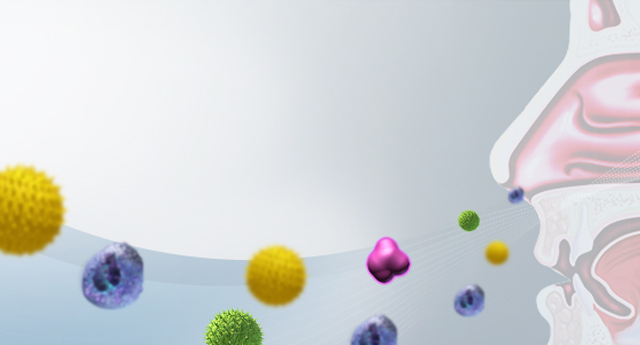
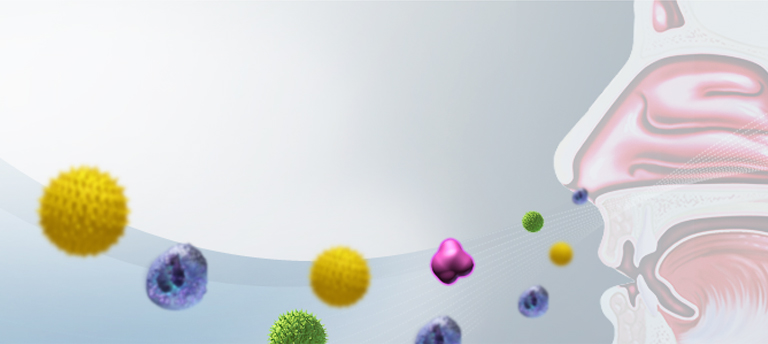
Hero Image Mobile fix

diff --git a/app/css/global/_styleguide.scss b/app/css/global/_styleguide.scss
@@ -250,6 +250,9 @@ h4{
     max-width: 1400px;
     margin: auto;
     min-height: 50px;  //borrar
+     @media screen and (max-width: 1063px) {
+         float:left;
+     }
 
   }
 
@@ -258,6 +261,24 @@ h4{
   .hero-banner {
     height: 329px;
     margin: auto;
+    
+   @media screen and (max-width: 1063px) {
+       background-size:contain !important;
+       height:auto;
+       padding-bottom: 23.5%;
+   }
+   
+    @include breakpoint('mobile'){
+       height:auto;
+       padding-bottom: 23.5%;
+       background-size:cover !important;
+       height: 172px;
+       max-height: 344px;
+       min-height: 172px;
+       min-width: 320px;
+       padding-bottom: 0;
+       background-position: 80% 0 !important;
+    }
 
     h1  {
       margin-left: #{fluid-percentage($site-max-width, 213)};
@@ -265,11 +286,23 @@ h4{
       color: $color-dark-blue;
       font-size: 50px;
       padding-top: 65px;
+      @media screen and (max-width: 1063px) {
+        padding-top: 4.64%;
+      }
+      @include breakpoint('mobile'){
+          font-size:17px;
+          padding-top: 21px;
+      }
     }
 
     .underlined {
       margin-left: #{fluid-percentage($site-max-width, 213)};
       margin-top: 19px;
+      @include breakpoint('mobile'){
+            width:25px;
+            height:3px;
+            margin-top:19px;
+        }
     }
 
 
@@ -299,8 +332,14 @@ h4{
   margin-top: -9px;
   padding-top: 120px;
 
-  @include breakpoint(desktop) {
+  @include breakpoint('desktop') {
     padding-top: 148px;
+  }
+  @media screen and (max-width: 1063px) {
+    padding-top: 148px;
+  }
+  @include breakpoint('mobile'){
+    padding-top: 128px !important;
   }
 
 }

diff --git a/app/css/sections/_internal.scss b/app/css/sections/_internal.scss
@@ -139,15 +139,6 @@ strong{
     
     .container{
          margin-top: 51px;
-         h1{
-            font-size:17px;
-            padding-top: 21px;
-        }  
-        .underlined{
-            width:25px;
-            height:3px;
-            margin-top:22px;
-        }
         h2{
             font-size: 17px;
             margin-bottom: 15px;

diff --git a/app/css/sections/_science-of-allergic-rhinitis.scss b/app/css/sections/_science-of-allergic-rhinitis.scss
@@ -5,6 +5,9 @@
 
 .hero-banner {
   background:url("../img/desktop/science-of-allergic-rhinitis/hero-rhinitis.png") no-repeat top center;
+  @include breakpoint('mobile') {
+      background:url("../img/mobile/science-of-allergic-rhinitis/hero-rhinitis-big.jpg") no-repeat top center;
+  }
 
 }
 
